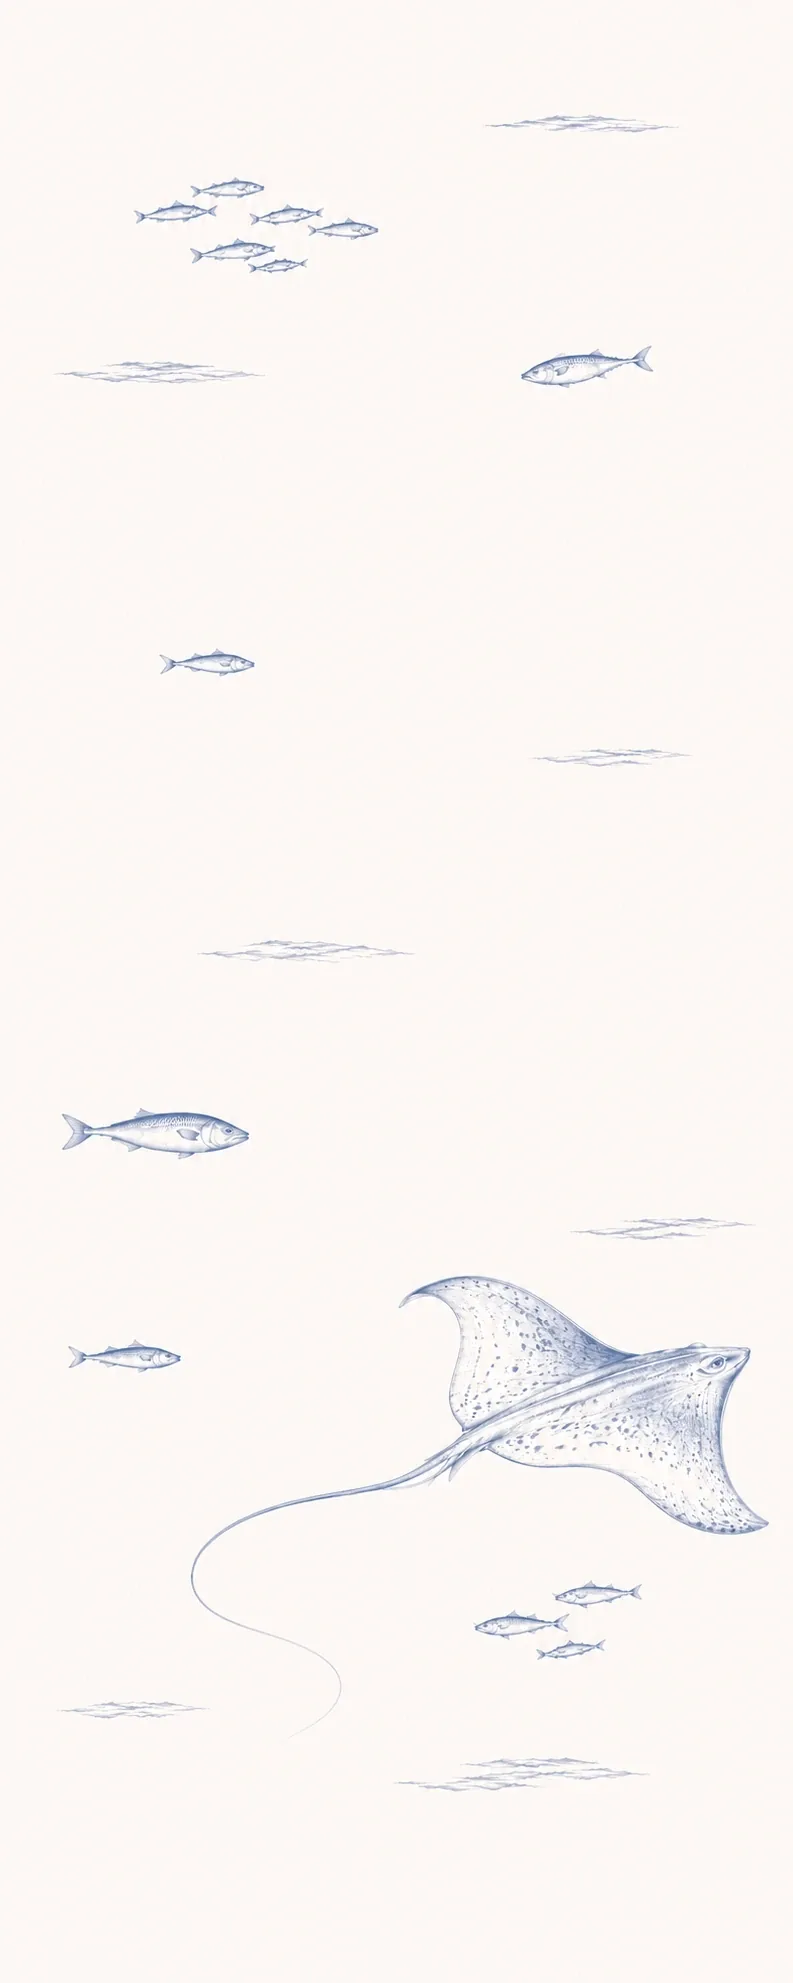
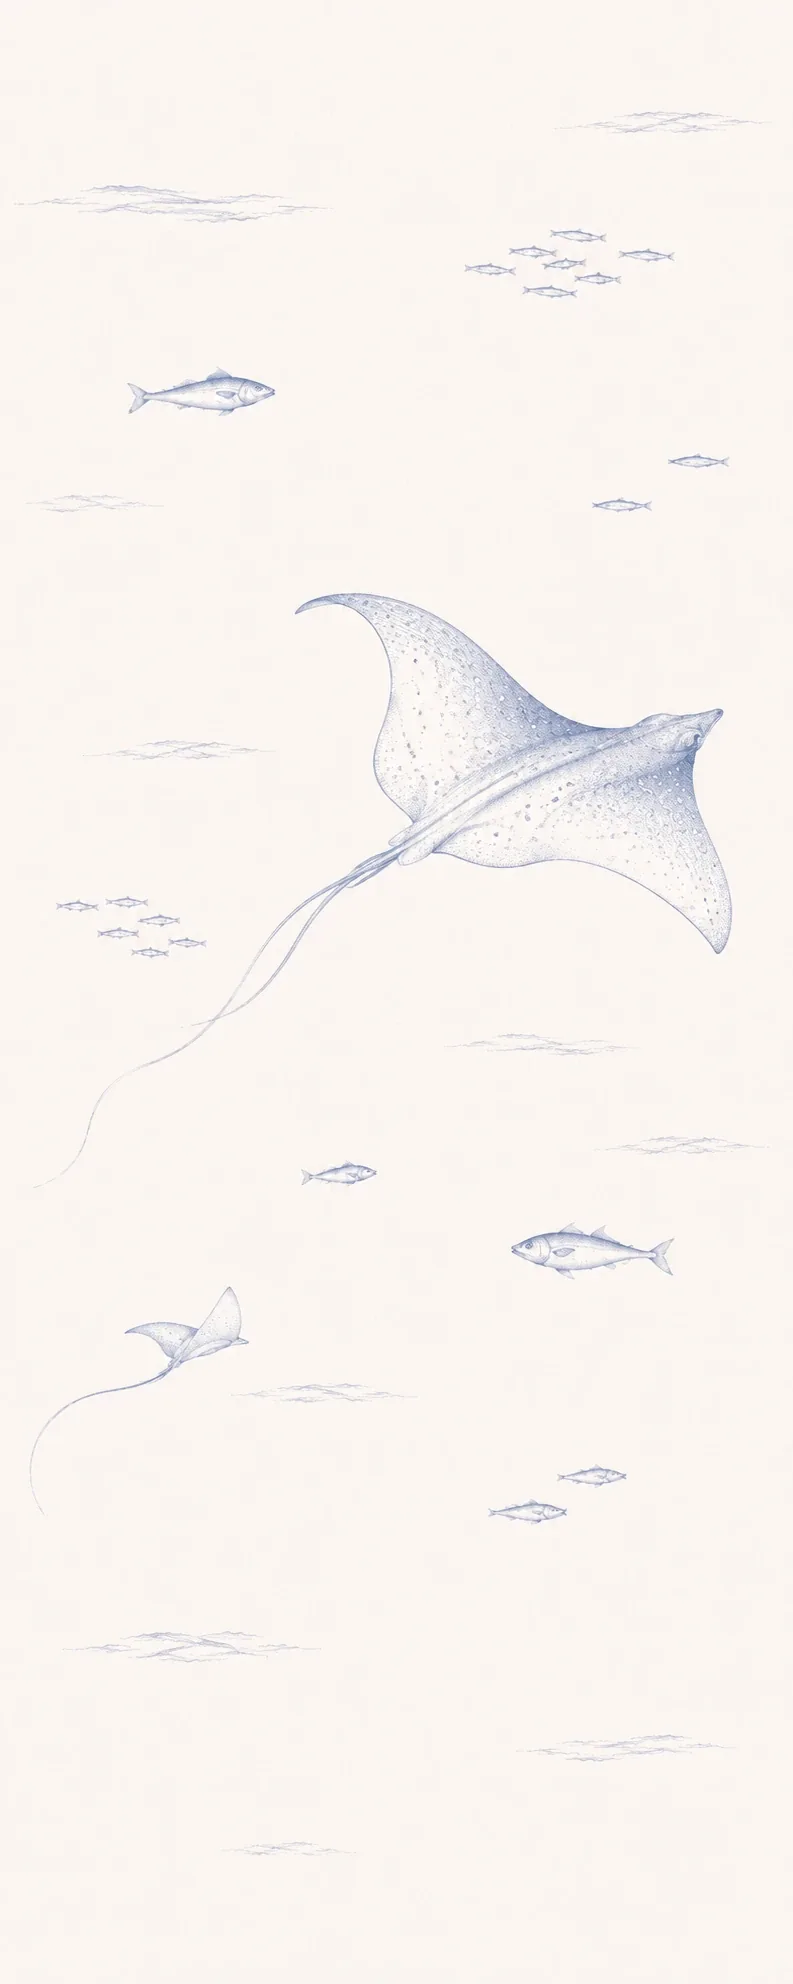
Sfondo Gambero Rosso/Rosa/Scampi: nuove razze, razza grande sotto il titolo del Gambero Rosso; il disegno finisce in fondo ai piatti

diff --git a/index.html b/index.html
@@ -215,13 +215,13 @@ main{ overflow-x:clip; }
   100%{ background-position:-100% 0; }
 }
 .category[data-cat="antipasti"] .dish-block[data-block-idx="1"]{ background-image:url('image/sfondi/bg-antipasti2.webp'); background-size:100% auto; background-position:top center; padding-bottom:64px; }
-/* terzo blocco degli antipasti (Gambero Rosso, Gambero Rosa, Scampi): sfondo con la razza, a destra sotto gli Scampi.
-   Il disegno (alto 2,5 volte la larghezza) è spinto verso il basso di 0,26 volte la larghezza, così si taglia la parte
-   vuota in fondo; lo spazio dopo l'ultimo piatto serve solo a lasciare vedere la razza (che parte al 65% del disegno). */
+/* terzo blocco degli antipasti (Gambero Rosso, Gambero Rosa, Scampi): sfondo con le razze. Il disegno (alto 2,5 volte la
+   larghezza) è ancorato in alto e salito di 0,49 volte la larghezza, così la razza grande (che nel disegno parte al 30%)
+   cade subito sotto il titolo "Gambero Rosso di Mazara del Vallo". Il blocco finisce in fondo ai piatti, senza spazio sotto. */
 .category[data-cat="antipasti"] .dish-block[data-block-idx="2"]{
-  background-image:url('image/sfondi/bg-gamberi.webp'); background-size:100% auto;
-  background-position:center calc(100% + 0.26 * min(100vw, 480px));
-  padding-bottom:calc(0.60 * min(100vw, 480px));
+  background-image:url('image/sfondi/bg-gamberi.webp?v=20261121b'); background-size:100% auto;
+  background-position:center calc(-0.49 * min(100vw, 480px));
+  padding-bottom:0;
 }
 .category[data-cat="primi"]     .dish-block[data-block-idx="1"]{ background-color:var(--bg-base); background-image:url('image/sfondi/bg-primi2.webp'); background-size:100% auto; background-position:center 460px; padding-bottom:520px; }
 .category[data-cat="secondi"]   .dish-block[data-block-idx="0"]{ background-image:url('image/sfondi/bg-secondi.webp'); background-position:center -171px; }
